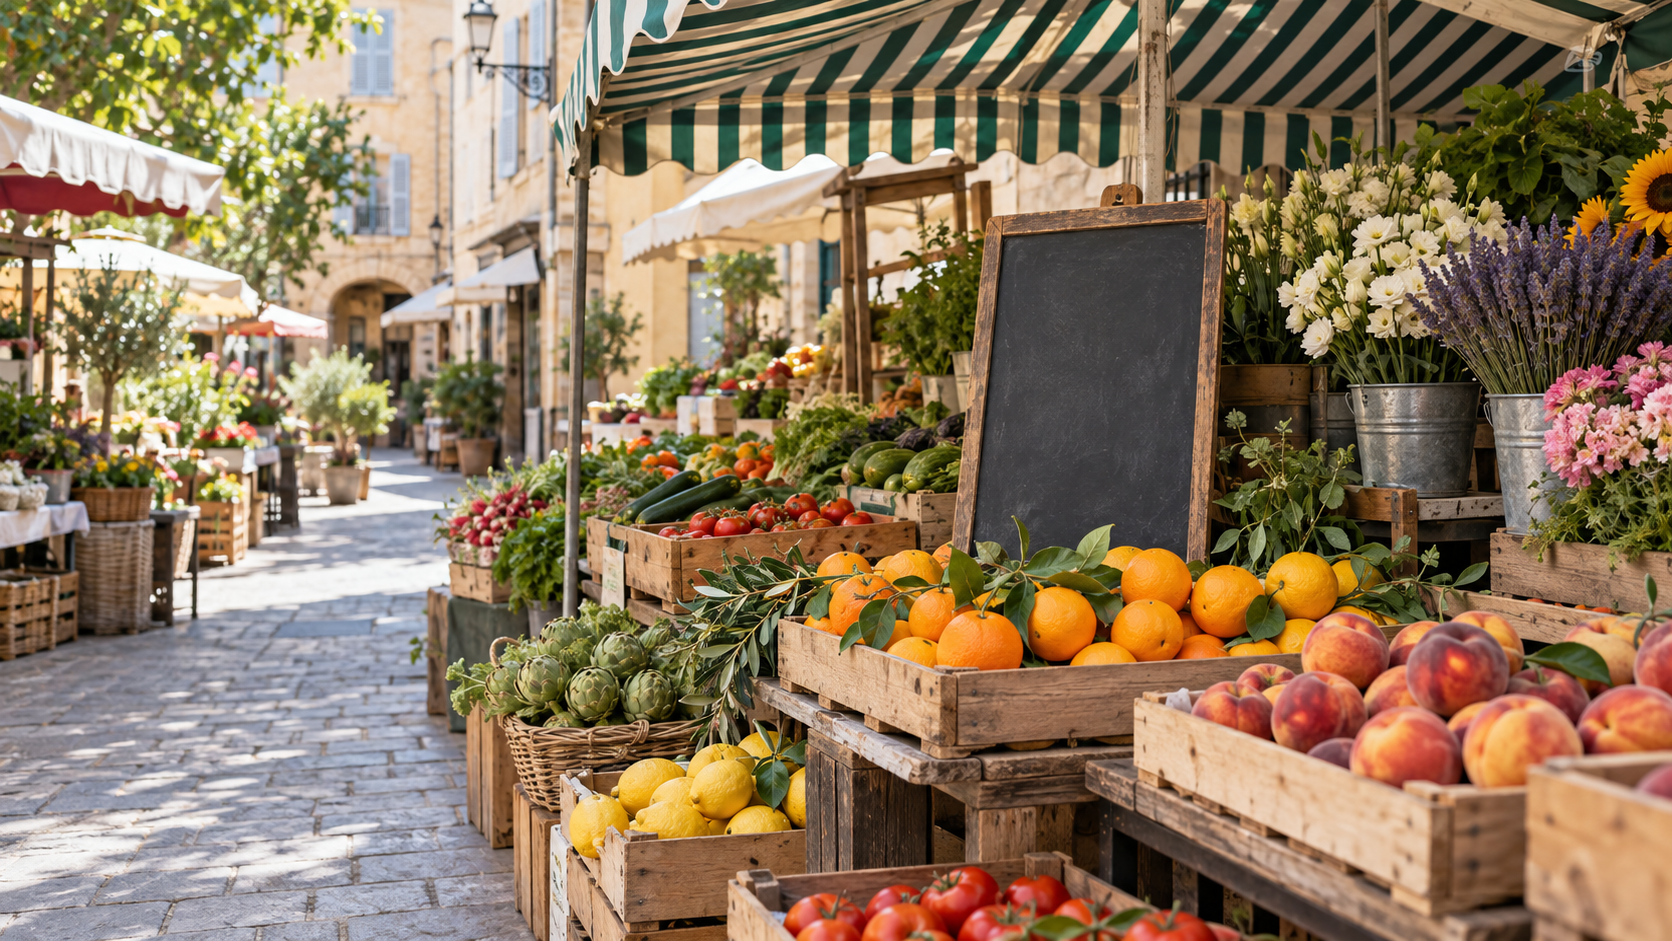
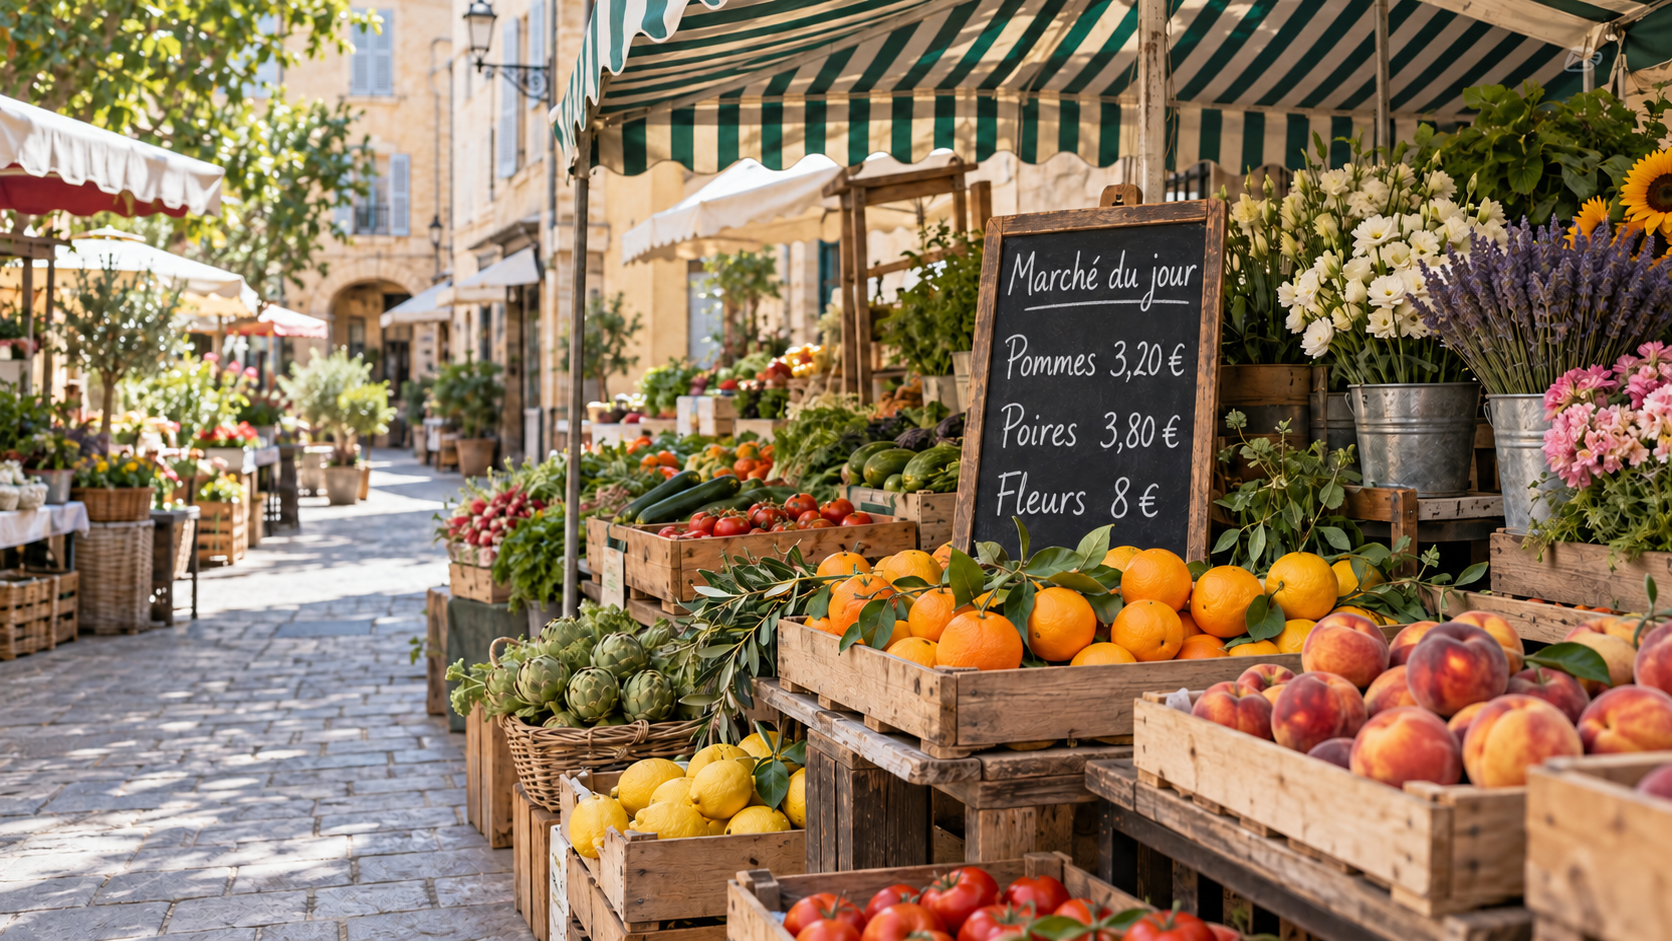
Enrich simulated HUD details across three scenes

diff --git a/components/Experience.tsx b/components/Experience.tsx
@@ -5,9 +5,9 @@ import styles from "./Experience.module.css";
 type Scenario = "navigation" | "vision" | "translation";
 type Status = "idle" | "responding" | "ready";
 const scenarios = {
-  navigation: { label: "Navigation", scene: "street", alt: "A pedestrian street with a café entrance and outdoor tables.", title: "A small detour. A good coffee.", prompt: "Find the café", answer: "The café entrance is just ahead on this illustrative street. This route is a scripted example.", card: "Café / just ahead", symbol: "↗" },
-  vision: { label: "Vision", scene: "gallery", alt: "An art gallery interior with works displayed on the walls.", title: "Look closer. Notice more.", prompt: "Explore the gallery", answer: "Artworks and exhibition details come into focus in this illustrative gallery scene.", card: "Gallery / in focus", symbol: "◎" },
-  translation: { label: "Translation", scene: "market", alt: "A neighborhood market with produce and signs.", title: "Find your words anywhere.", prompt: "Translate the signs", answer: "Sample French labels: pommes means apples; poires means pears; fleurs means flowers. This translation is scripted.", card: "French → English", symbol: "A" },
+  navigation: { label: "Navigation", scene: "street", alt: "A pedestrian street with a café entrance and outdoor tables.", title: "A small detour. A good coffee.", prompt: "Explore nearby", answer: "Illustrative location: Rue des Tilleuls × Rue du Marché, in the fictional town of Belleneuve. The café is ahead; the Old Town Square, Riverside Promenade and Museum of Light are nearby. No live location or directions are used." },
+  vision: { label: "Vision", scene: "gallery", alt: "An art gallery with a large abstract painting on the right-hand wall.", title: "Look closer. Notice more.", prompt: "Explore the artwork", answer: "Fictional artwork: Between Light and Stone, painted by Camille Arnaud in 2018. The large abstract canvas on the right pairs charcoal forms with warm ochre. This identification is a scripted concept, not image recognition." },
+  translation: { label: "Translation", scene: "market", alt: "A neighborhood market with produce and a chalkboard sign.", title: "Find your words anywhere.", prompt: "Translate the chalkboard", answer: "Fictional chalkboard translation: Marché du jour means Today's market; pommes means apples (€3.20), poires means pears (€3.80), and fleurs means flowers (€8). This is a scripted example, not live translation." },
 } as const;
 function SceneImage({ scene, alt, onLoad, onError }: { scene: string; alt: string; onLoad?: () => void; onError?: () => void }) {
   return <picture><source type="image/avif" srcSet={`/images/scene-${scene}-640.avif 640w, /images/scene-${scene}-960.avif 960w, /images/scene-${scene}-1440.avif 1440w`} sizes="91vw" /><img src={`/images/scene-${scene}-960.webp`} srcSet={`/images/scene-${scene}-640.webp 640w, /images/scene-${scene}-960.webp 960w, /images/scene-${scene}-1440.webp 1440w`} sizes="91vw" width={1672} height={941} loading="lazy" decoding="async" alt={alt} onLoad={onLoad} onError={onError} /></picture>;
@@ -32,7 +32,11 @@ export function Experience() {
     <fieldset className={styles.scenarios}><legend>Choose a scene</legend><div className={styles.radioRow}>{(Object.keys(scenarios) as Scenario[]).map(id => <label key={id}><input type="radio" name="scenario" value={id} checked={scenario === id} onChange={() => chooseScenario(id)} /><span>{scenarios[id].label}</span></label>)}</div></fieldset>
     <figure className={styles.scene} style={splitStyle} data-scenario={scenario} data-narrow={split > 50}>
       <div className={styles.worldScene} key={`${current.scene}-${generation}`}><SceneImage scene={current.scene} alt={current.alt} onLoad={() => setSceneError(false)} onError={() => setSceneError(true)} /></div>
-      {!sceneError && <><div className={styles.olvrScene} aria-hidden="true"><SceneImage scene={current.scene} alt="" /><div className={styles.tint} /><div className={styles.hudCard}><span className={styles.symbol}>{current.symbol}</span><div><small>OLVR / {current.label}</small><p>{status === "ready" ? current.card : "Context, on your terms."}</p></div></div>{scenario === "translation" && <div className={styles.translationCard}><small>Sample labels / Français → English</small><p>Pommes <span>Apples</span></p><p>Poires <span>Pears</span></p><p>Fleurs <span>Flowers</span></p></div>}</div><div className={styles.sceneTop} aria-hidden="true"><span>WORLD</span><span>DRAG TO COMPARE</span><span>OLVR</span></div><div className={styles.divider} aria-hidden="true"><span className={styles.grip}>‹ &nbsp;›</span></div><input className={styles.slider} type="range" min="0" max="100" step="1" value={split} onChange={event => setSplit(Number(event.target.value))} aria-label={`Compare World and OLVR in the ${current.label.toLowerCase()} scene`} aria-valuetext={`${split}% World, ${100 - split}% OLVR`} aria-describedby="compare-instructions" /></>}
+      {!sceneError && <><div className={styles.olvrScene} aria-hidden="true"><SceneImage scene={current.scene} alt="" /><div className={styles.tint} />
+        {scenario === "navigation" && <div className={styles.hudCard}><small>OLVR / illustrative location</small><strong>Rue des Tilleuls × Rue du Marché</strong><span>Belleneuve · fictional town</span><ul><li>Old Town Square <em>4 min</em></li><li>Riverside Promenade <em>6 min</em></li><li>Museum of Light <em>8 min</em></li></ul></div>}
+        {scenario === "vision" && <div className={styles.hudCard}><small>OLVR / fictional artwork</small><strong>Between Light and Stone</strong><span>Camille Arnaud · 2018</span><p>Abstract study in charcoal and ochre</p></div>}
+        {scenario === "translation" && <div className={`${styles.hudCard} ${styles.translationCard}`}><small>OLVR / Français → English</small><strong>Marché du jour <span>Today&apos;s market</span></strong><ul><li>Pommes · 3,20 € <em>Apples · €3.20</em></li><li>Poires · 3,80 € <em>Pears · €3.80</em></li><li>Fleurs · 8 € <em>Flowers · €8</em></li></ul></div>}
+      </div><div className={styles.sceneTop} aria-hidden="true"><span>WORLD</span><span>DRAG TO COMPARE</span><span>OLVR</span></div><div className={styles.divider} aria-hidden="true"><span className={styles.grip}>‹ &nbsp;›</span></div><input className={styles.slider} type="range" min="0" max="100" step="1" value={split} onChange={event => setSplit(Number(event.target.value))} aria-label={`Compare World and OLVR in the ${current.label.toLowerCase()} scene`} aria-valuetext={`${split}% World, ${100 - split}% OLVR`} aria-describedby="compare-instructions" /></>}
       {sceneError && <div className={styles.sceneError}><p>This scene could not load.</p><button type="button" onClick={() => { setSceneError(false); setGeneration(value => value + 1); }}>Retry image</button><p>The scripted example below remains available.</p></div>}
       <figcaption className="sr-only">{current.alt} Drag the divider to compare a plain view with a scripted OLVR concept overlay.</figcaption>
     </figure>

diff --git a/components/Experience.module.css b/components/Experience.module.css
@@ -25,13 +25,15 @@
 .slider::-webkit-slider-thumb { appearance: none; width: 52px; height: 70px; background: transparent; border: 0; cursor: ew-resize; }
 .slider::-moz-range-thumb { width: 52px; height: 70px; background: transparent; border: 0; cursor: ew-resize; }
 .slider:focus-visible { outline: 3px solid var(--ivory); outline-offset: -7px; border-radius: inherit; }
-.hudCard { position: absolute; bottom: 8%; right: 6%; display: flex; gap: 16px; align-items: center; max-width: 270px; padding: 19px 22px; background: #101210ed; border: 1px solid #c8d6a25c; border-radius: 24px 8px 24px 8px; color: var(--ivory); }
-.symbol { font-size: 30px; color: var(--lime); }
-.hudCard small { color: var(--lime); text-transform: uppercase; letter-spacing: .1em; font-size: 9px; }
-.hudCard p { font-size: 14px; margin-top: 7px; line-height: 1.4; }
-.translationCard { position: absolute; right: 8%; top: 24%; width: 240px; padding: 18px; background: #f2f0e8f2; color: var(--graphite); border-radius: 20px 6px 20px 6px; }
-.translationCard small { font-size: 10px; }
-.translationCard p { display: flex; justify-content: space-between; gap: 12px; border-top: 1px solid #b9bdb0; margin-top: 10px; padding-top: 9px; font-size: 12px; }
+.hudCard { position: absolute; bottom: 6%; right: 5%; display: grid; gap: 7px; width: min(350px, 40%); padding: 18px 20px; background: #101210f2; border: 1px solid #c8d6a28c; border-radius: 24px 8px 24px 8px; color: var(--ivory); box-shadow: 0 10px 35px #10121050; }
+.hudCard small { color: var(--lime); text-transform: uppercase; letter-spacing: .1em; font-size: 10px; }
+.hudCard strong { font-size: 17px; font-weight: 500; line-height: 1.25; }
+.hudCard > span, .hudCard p { font-size: 12px; line-height: 1.4; color: #e6e5dc; }
+.hudCard ul { list-style: none; padding: 0; margin: 5px 0 0; }
+.hudCard li { display: flex; justify-content: space-between; gap: 12px; padding-top: 6px; margin-top: 6px; border-top: 1px solid #f2f0e840; font-size: 11px; line-height: 1.3; }
+.hudCard em { font-style: normal; color: var(--lime); white-space: nowrap; }
+.translationCard { bottom: 4%; right: 4%; width: min(380px, 44%); }
+.translationCard strong span { display: block; margin-top: 3px; color: var(--lime); font-size: 13px; }
 .compareFooter { display: flex; align-items: center; justify-content: space-between; gap: 12px; margin-top: 14px; color: var(--muted); font-size: 10px; }
 .compareFooter p { text-align: center; }
 .context { display: grid; grid-template-columns: 1fr 1fr; gap: 9%; margin-top: 42px; }
@@ -45,17 +47,19 @@
 .note { color: var(--muted); font-size: 10px; line-height: 1.7; margin-top: 36px; }
 .sceneError { position: absolute; z-index: 5; inset: 0; background: #242820; display: flex; flex-direction: column; align-items: center; justify-content: center; gap: 15px; padding: 24px; font-size: 12px; text-align: center; }
 .sceneError button { background: var(--lime); color: var(--graphite); border: 0; padding: 12px 20px; border-radius: 20px; min-height: 44px; cursor: pointer; }
-@media (max-width: 760px) { .section { padding: 55px 24px 38px; } .heading { grid-template-columns: 1fr; gap: 22px; margin-bottom: 30px; } .heading h2 { font-size: clamp(34px, 8.5vw, 58px); } .heading > p:last-child { grid-column: auto; font-size: 12px; } .radioRow span { padding: 13px 16px; font-size: 11px; } .scene { aspect-ratio: 4 / 5; border-radius: 30px 8px 30px 8px; } .worldScene img, .olvrScene img { object-position: 50% 50%; } .sceneTop { left: 14px; right: 14px; top: 14px; font-size: 8px; } .sceneTop span:nth-child(2) { display: none; } .hudCard { bottom: 18px; right: 14px; max-width: 190px; padding: 12px; gap: 9px; } .hudCard p { font-size: 11px; } .symbol { font-size: 23px; } .translationCard { right: 14px; top: 16%; width: 180px; padding: 12px; } .compareFooter { font-size: 9px; } .compareFooter p { max-width: 160px; } .context { grid-template-columns: 1fr; gap: 30px; margin-top: 30px; } .response { border-top: 1px solid var(--line); padding-top: 24px; } .answer { min-height: 0; font-size: 13px; } }
+@media (max-width: 760px) { .section { padding: 55px 24px 38px; } .heading { grid-template-columns: 1fr; gap: 22px; margin-bottom: 30px; } .heading h2 { font-size: clamp(34px, 8.5vw, 58px); } .heading > p:last-child { grid-column: auto; font-size: 12px; } .radioRow span { padding: 13px 16px; font-size: 11px; } .scene { aspect-ratio: 4 / 5; border-radius: 30px 8px 30px 8px; } .worldScene img, .olvrScene img { object-position: 50% 50%; } .scene[data-scenario="translation"] .worldScene img, .scene[data-scenario="translation"] .olvrScene img { object-position: 70% 50%; } .sceneTop { left: 14px; right: 14px; top: 14px; font-size: 8px; } .sceneTop span:nth-child(2) { display: none; } .compareFooter { font-size: 9px; } .compareFooter p { max-width: 160px; } .context { grid-template-columns: 1fr; gap: 30px; margin-top: 30px; } .response { border-top: 1px solid var(--line); padding-top: 24px; } .answer { min-height: 0; font-size: 13px; } }
 @media (min-width: 1600px) { .section { padding-left: max(4.5%, calc((100vw - 1520px) / 2)); padding-right: max(4.5%, calc((100vw - 1520px) / 2)); } }
 @media (prefers-reduced-motion: no-preference) { .olvrScene, .divider { transition: clip-path 180ms ease-out, left 180ms ease-out; } }
 @media (max-width: 760px) {
-  .hudCard { bottom: 18px; right: 10px; width: calc(50% - 20px); max-width: none; padding: 10px; gap: 0; }
-  .hudCard small { font-size: 8px; letter-spacing: .04em; }
-  .hudCard p { font-size: 10px; overflow-wrap: anywhere; }
-  .symbol { display: none; }
-  .translationCard { right: 10px; top: 16%; width: calc(50% - 20px); padding: 9px; }
-  .translationCard small { display: block; font-size: 9px; line-height: 1.3; }
-  .translationCard p { gap: 3px; margin-top: 7px; padding-top: 7px; font-size: 9px; }
-  .scene[data-narrow="true"] .hudCard, .scene[data-narrow="true"] .translationCard { display: none; }
+  .hudCard { bottom: 12px; right: 9px; width: calc(50% - 12px); max-width: none; padding: 10px; gap: 4px; border-radius: 15px 5px 15px 5px; }
+  .hudCard small { font-size: 8px; letter-spacing: .03em; }
+  .hudCard strong { font-size: 11px; overflow-wrap: anywhere; }
+  .hudCard > span, .hudCard p { font-size: 9px; }
+  .hudCard li { font-size: 9px; gap: 3px; padding-top: 4px; margin-top: 4px; }
+  .translationCard { bottom: 12px; right: 9px; }
+  .translationCard strong span { font-size: 9px; }
+  .translationCard li { display: block; }
+  .translationCard em { display: block; }
+  .scene[data-narrow="true"] .hudCard { display: none; }
   .scene[data-scenario="translation"] .grip { top: 60%; }
 }

diff --git a/scripts/tests/experience.spec.ts b/scripts/tests/experience.spec.ts
@@ -6,15 +6,16 @@ test("three distinct scenes compare World and OLVR and keep scripted responses h
   await section.scrollIntoViewIfNeeded();
   const slider = section.getByRole("slider", { name: /Compare World and OLVR/ });
   await expect(slider).toHaveValue("50");
-  for (const [label, id, action, answer] of [
-    ["Navigation", "street", "Find the café", "scripted example"],
-    ["Vision", "gallery", "Explore the gallery", "gallery scene"],
-    ["Translation", "market", "Translate the signs", "pommes means apples"],
+  for (const [label, id, action, answer, hud] of [
+    ["Navigation", "street", "Explore nearby", "Rue des Tilleuls", "Museum of Light"],
+    ["Vision", "gallery", "Explore the artwork", "Between Light and Stone", "Camille Arnaud · 2018"],
+    ["Translation", "market", "Translate the chalkboard", "pommes means apples", "Apples · €3.20"],
   ]) {
     await section.getByRole("radio", { name: label, exact: true }).check();
     await expect(section.locator("figure")).toHaveAttribute("data-scenario", label.toLowerCase());
     await expect(section.locator("figure img").first()).toHaveAttribute("src", new RegExp(`/images/scene-${id}-`));
     await expect.poll(() => section.locator("figure img").first().evaluate(image => (image as HTMLImageElement).naturalWidth)).toBeGreaterThan(0);
+    await expect(section.locator("figure")).toContainText(hud);
     await expect(slider).toHaveValue("50");
     await section.getByRole("button", { name: action }).click();
     await expect(section.getByRole("status")).toContainText(answer);
@@ -42,6 +43,8 @@ test("keyboard controls both comparison extremes and scenario selection with red
   await section.getByRole("radio", { name: "Translation" }).check();
   await expect(slider).toHaveValue("50");
   await expect(section.locator("figure")).toContainText("Pommes");
+  await expect(section.locator("figure")).toContainText("Apples");
+  await expect(section.locator("figure")).toContainText("3,20 €");
   expect(parseFloat(await section.locator("figure [class*='_olvrScene']").evaluate(el => getComputedStyle(el).transitionDuration))).toBeLessThan(0.001);
 });
 
@@ -53,8 +56,8 @@ test("scene failure keeps the scripted example and retry restores the image", as
   await section.getByRole("radio", { name: "Vision" }).check();
   await section.scrollIntoViewIfNeeded();
   await expect(section.getByRole("button", { name: "Retry image" })).toBeVisible();
-  await section.getByRole("button", { name: "Explore the gallery" }).click();
-  await expect(section.getByRole("status")).toContainText("gallery scene");
+  await section.getByRole("button", { name: "Explore the artwork" }).click();
+  await expect(section.getByRole("status")).toContainText("Between Light and Stone");
   await page.unroute("**/scene-gallery-*");
   await section.getByRole("button", { name: "Retry image" }).click();
   await expect.poll(() => section.locator("figure img").first().evaluate(image => (image as HTMLImageElement).naturalWidth)).toBeGreaterThan(0);

diff --git a/scripts/tests/motion-qa.spec.ts b/scripts/tests/motion-qa.spec.ts
@@ -27,8 +27,8 @@ for (const size of sizes) {
     await expect(slider).toHaveValue("0");
     await slider.fill("100");
     await expect(slider).toHaveValue("100");
-    await experience.getByRole("button", { name: "Find the café" }).click();
-    await expect(experience.getByRole("status")).toContainText("just ahead");
+    await experience.getByRole("button", { name: "Explore nearby" }).click();
+    await expect(experience.getByRole("status")).toContainText("Rue des Tilleuls");
     await experience.getByText("Translation", { exact: true }).click();
     await expect(experience.getByRole("status")).toContainText("Choose the action");
     await page.evaluate(() => (document.activeElement as HTMLElement | null)?.blur());

diff --git a/docs/asset-proof.md b/docs/asset-proof.md
@@ -2,16 +2,18 @@
 
 ## Novas cenas do comparador — 14/10/2026
 
-Foram geradas duas cenas fictícias pela ferramenta integrada imagegen, uma chamada por cena. São fotografias conceituais para o comparador Experience, sem localização, marca, pessoa identificável ou texto legível. A camada de interpretação/ tradução é HTML e não faz parte das imagens. Ambas têm 1672×941 px; o manifest gera 640/960/1440, sem upscale. As imagens foram inspecionadas visualmente: a galeria mantém o quadro central à direita e espaço no piso; o mercado mantém uma placa vazia próxima do centro-direita. A arte abstrata da galeria é conteúdo gerado, sem autoria real reivindicada. Os cenários não comprovam visão por hardware real.
+Foram geradas duas cenas fictícias pela ferramenta integrada imagegen, uma chamada por cena. São fotografias conceituais para o comparador Experience, sem localização, marca ou pessoa identificável. A lousa do mercado recebeu texto fictício em uma edição posterior; sua tradução é HTML. Ambas têm 1672×941 px; o manifest gera 640/960/1440, sem upscale. As imagens foram inspecionadas visualmente: a galeria mantém o quadro central à direita e espaço no piso; o mercado mantém a lousa legível próxima do centro-direita. A arte abstrata da galeria é conteúdo gerado, sem autoria real reivindicada. Os cenários não comprovam visão por hardware real.
 
 | Master | Output original | SHA-256 |
 |---|---|---|
[3 lines of base64/hex data omitted]
 
 Prompt galeria: “Original contemporary French art gallery interior, quietly luxurious and believable, cream plaster walls, warm oak floor, a few abstract artworks with no legible text or logos, one striking abstract sculpture and a large framed painting providing visually identifiable anchors for a conceptual AI art-guide overlay implemented separately in HTML. Wide eye-level human perspective, clean focal area middle-right, enough environmental detail across full width to remain compelling when cropped on mobile. Natural daylight with warm pools of gallery light, editorial real-estate photography, subtle grain. No people, visible words, labels, HUD, UI, smart glasses, logos, brands or watermarks.”
 
 Prompt mercado: “Original everyday French open-air produce market on a pedestrian street, under striped canvas awnings, with fresh citrus, peaches, flowers and produce crates, a simple blank chalkboard sign suitable for conceptual translation overlay implemented separately in HTML. Editorial human eye-level photography, quiet lived-in detail and realistic daylight. Market stall and blank sign in central-right area; useful full-width street context for desktop and center crop on mobile. No identifiable people, legible text, UI/HUD, smart glasses, logos, brands or watermark.”
+
+Edição posterior da lousa: a imagem original foi usada como referência no imagegen para preservar cena, perspectiva e composição, alterando apenas o texto em giz branco para `Marché du jour`, `Pommes 3,20 €`, `Poires 3,80 €` e `Fleurs 8 €`. Master e derivado de 960 px foram conferidos visualmente. As informações de artista, cidade e preços exibidas na UI são fictícias.
 
 ## Estudo de inspeção 2,5D — 14/10/2026
 
